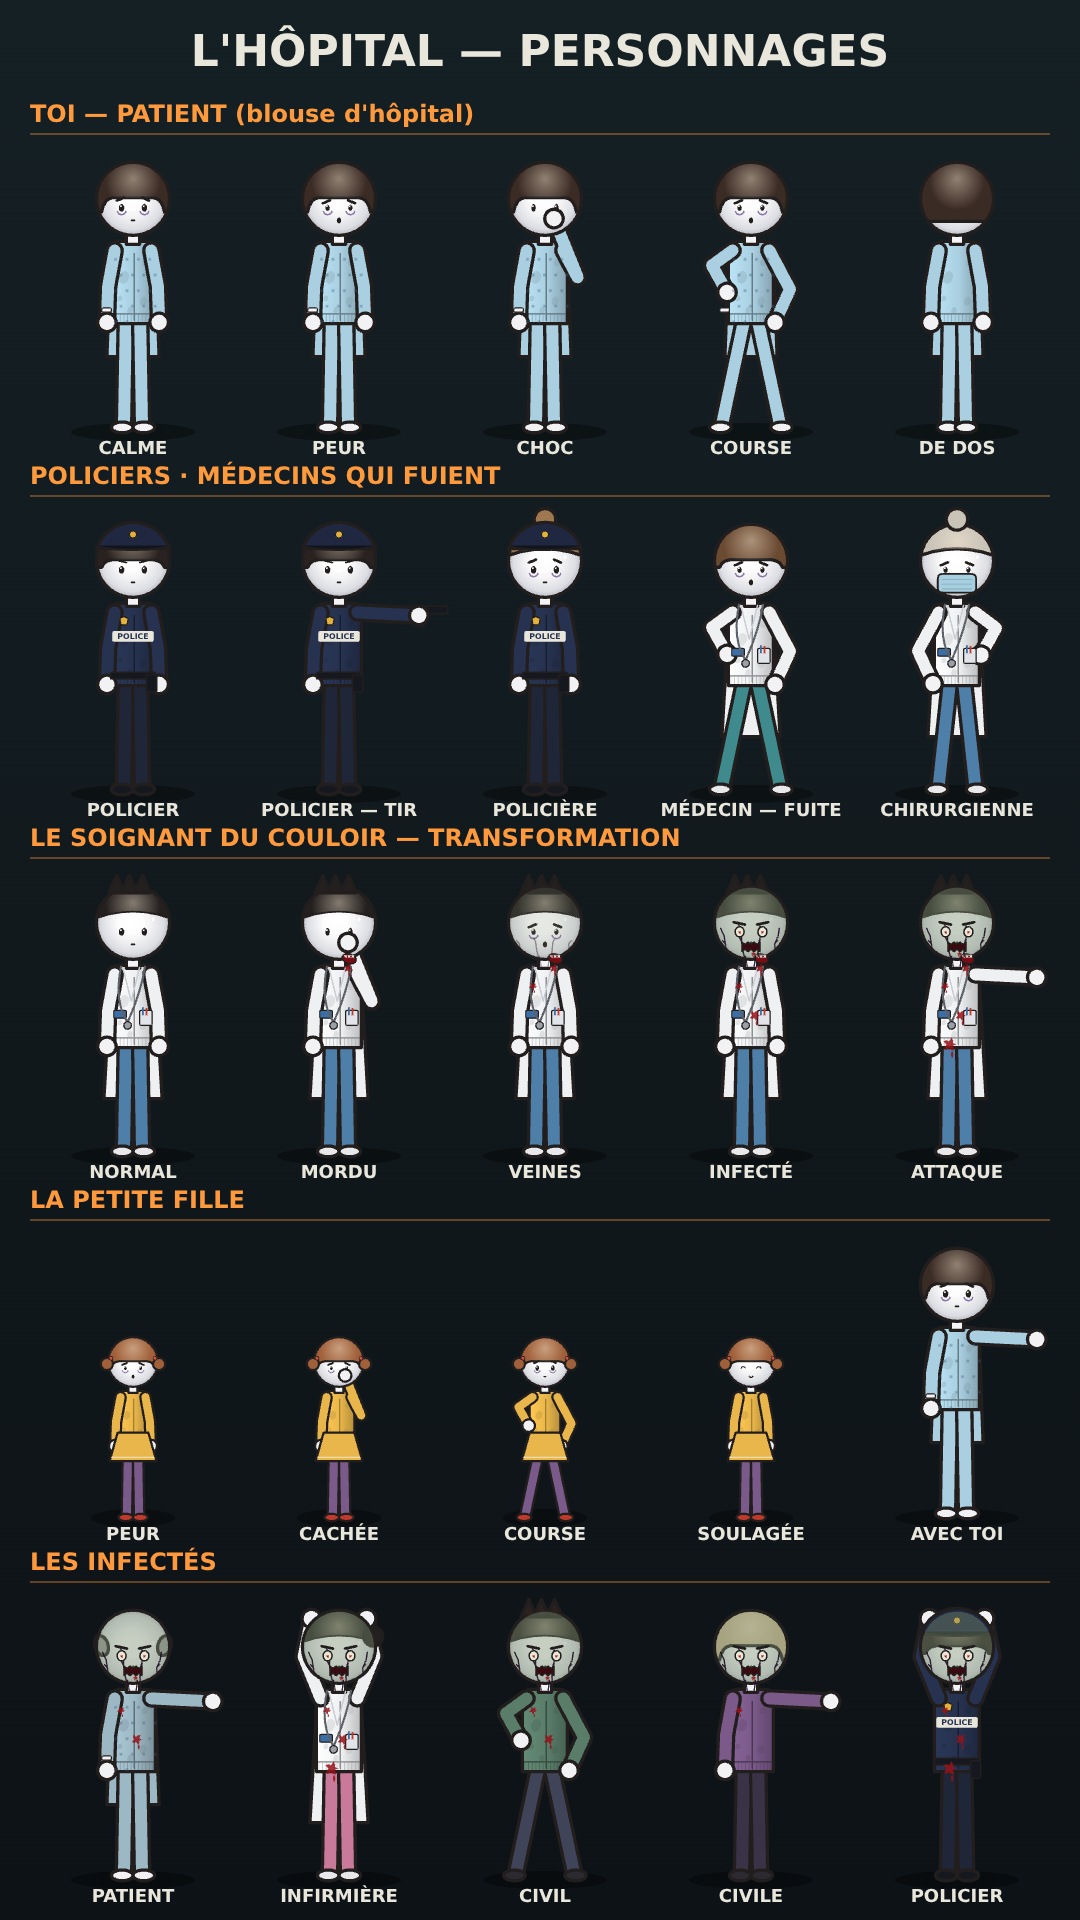
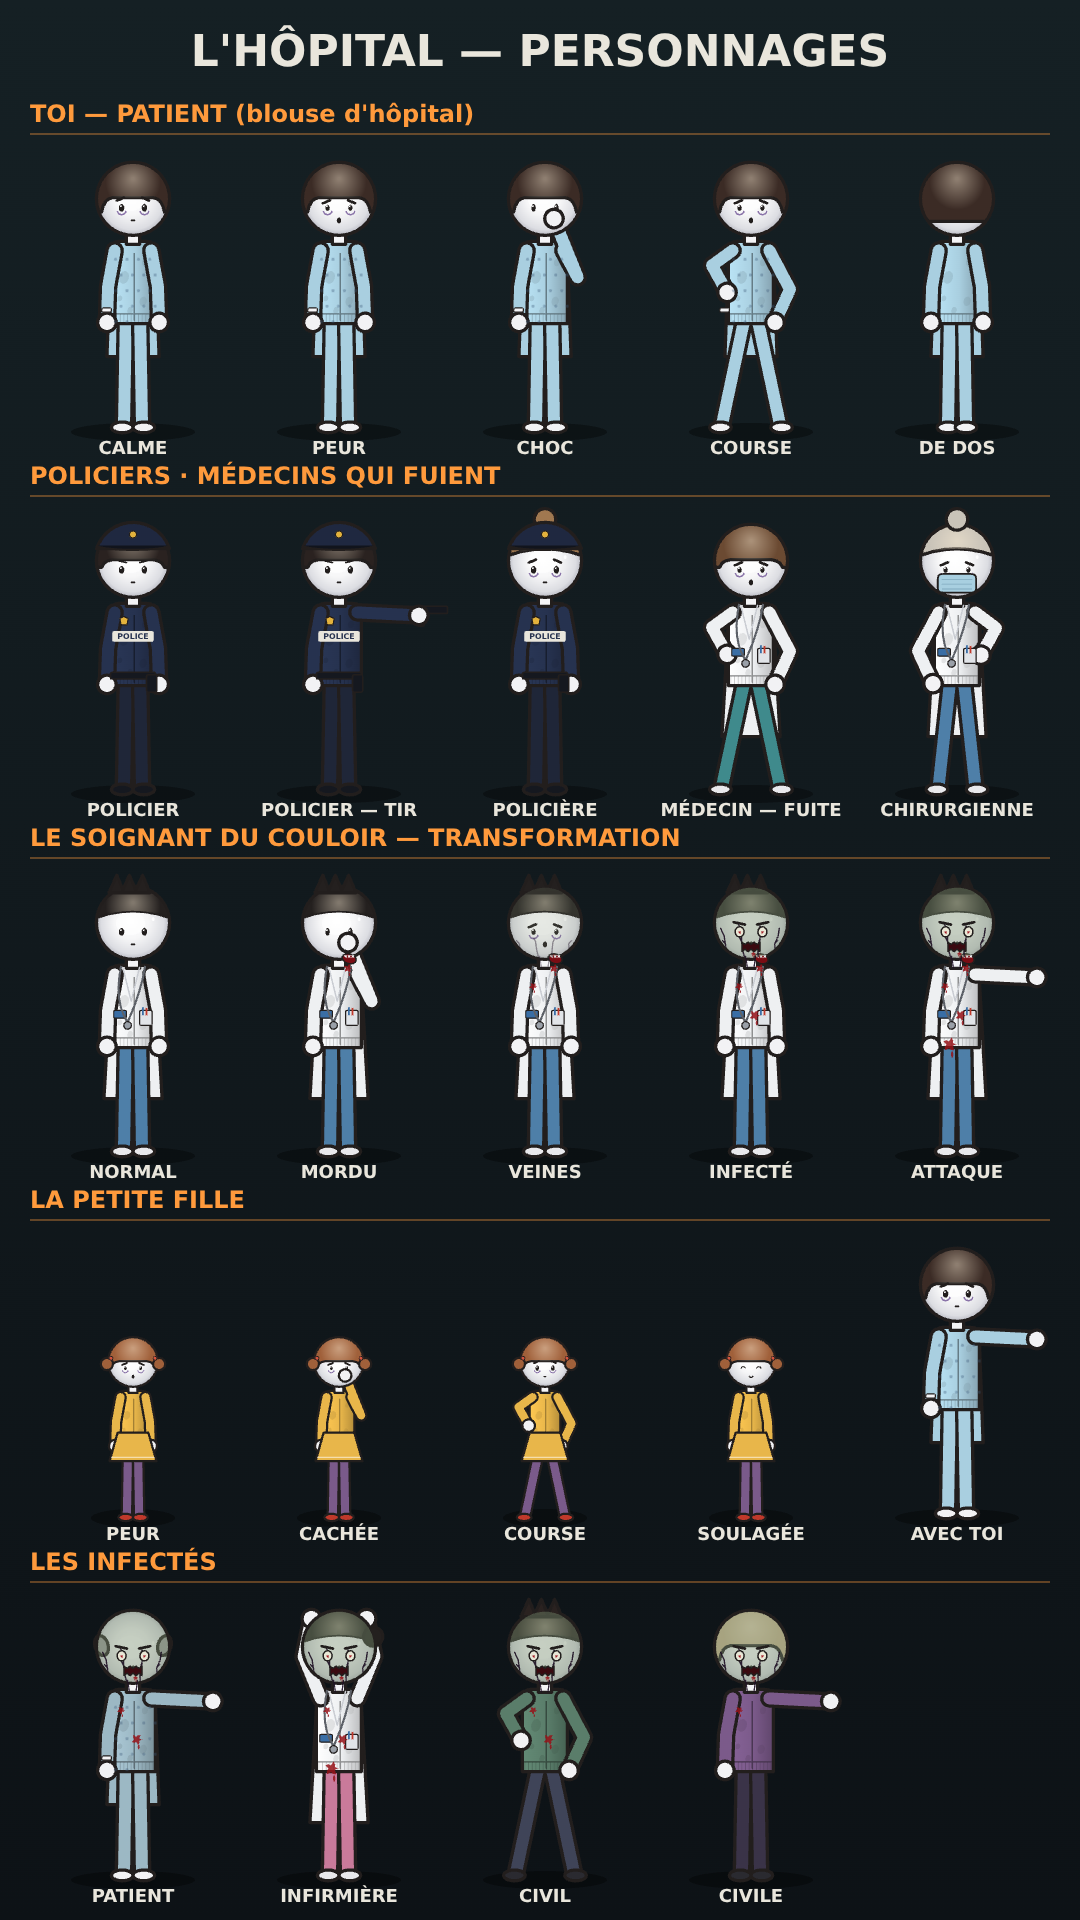
Hôpital : retire le policier infecté de la planche
Claude-Session: https://claude.ai/code/session_0151hKPbvSgaLvTtgWaCHimf

Changed region(s): [[0.8556, 0.8125, 0.9167, 1.0]]

diff --git a/studio/src/videos/hopital/Planche.tsx b/studio/src/videos/hopital/Planche.tsx
@@ -23,8 +23,7 @@ const ROWS: Row[] = [
   ["LES INFECTÉS", [["PATIENT", { ...TOI, jacket: "#9cb8c4", pants: "#9cb8c4", hair: "bald", hairColor: "#9a9a9a", infect: 1, blood: 2, pose: "reach" }],
     ["INFIRMIÈRE", { ...DOC, pants: "#c97a9a", hair: "ponytail", hairColor: "#24201f", infect: 1, blood: 3, pose: "armsUp" }],
     ["CIVIL", { role: "civil", pose: "run", step: 0.25, expr: "shock", jacket: "#5a7d6a", pants: "#3f4458", shoes: "#2a2a30", hair: "spiky", hairColor: "#2a2220", infect: 1, blood: 2 }],
-    ["CIVILE", { role: "civil", pose: "reach", expr: "shock", jacket: "#7b5a8a", pants: "#3a3348", shoes: "#2a2a30", hair: "bob", hairColor: "#c9b48e", infect: 1, blood: 1 }],
-    ["POLICIER", { ...FLIC, infect: 1, blood: 3, pose: "armsUp" }]]],
+    ["CIVILE", { role: "civil", pose: "reach", expr: "shock", jacket: "#7b5a8a", pants: "#3a3348", shoes: "#2a2a30", hair: "bob", hairColor: "#c9b48e", infect: 1, blood: 1 }]]]
 ];
 
 export const HopitalPlanche: React.FC = () => {
